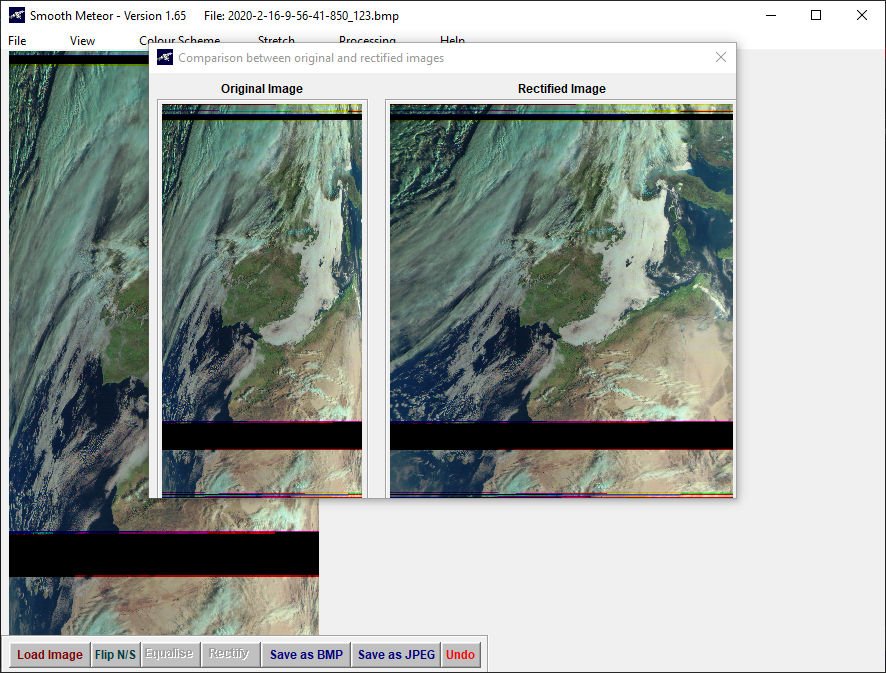
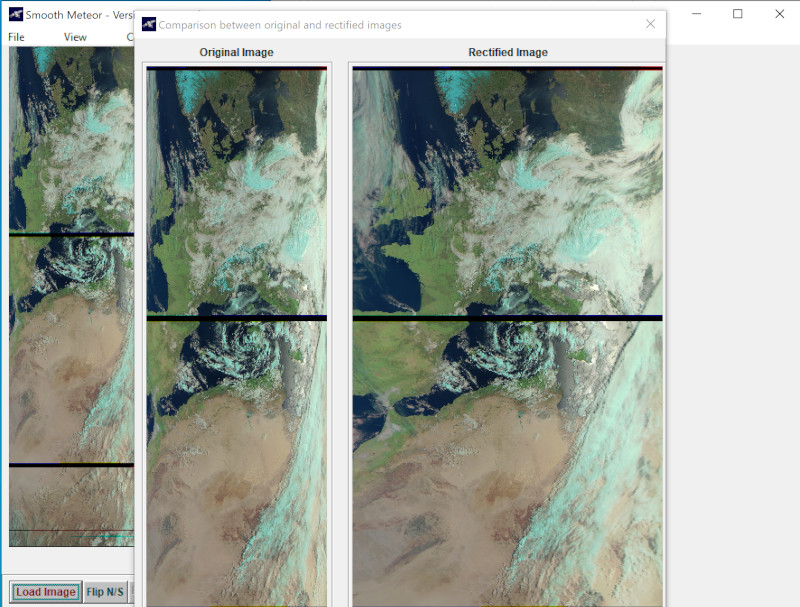
Update images

diff --git a/source/_posts/recepcion-satelites-meteorologicos-meteor.md b/source/_posts/recepcion-satelites-meteorologicos-meteor.md
@@ -167,14 +167,22 @@ Una vez termine el pase vamos a LRPT Decoder para generar la imagen final. El sa
 
 Para generarla seleccionamos los canales y hacemos click en **Generate RGB**. Nos aparecerá una ventana con la vista previa. Ahora hacemos click en **Save** y seleccionamos el formato de salida de la imagen que se guardará en la ruta que le hemos indicado en el archivo _**M2_LRPT_Decoder.ini**_.
 
-{% asset_img meteor_analizer_guardar.jpg "LRPT Decoder" %}
+{% asset_img meteor_analizer_guardar.jpg 800 "LRPT Decoder" %}
 
 ## Corrección de la distorsión de la imagen
 
 Si abrimos la imagen que hemos recibido veremos que presenta una distorsión en los laterales de la misma. Esta distorsión es posible corregirla de forma sencilla usando el software **Smooth Meteor** que podemos descargar desde el siguiente enlace:
 
-[<center>Smooth Meteor v1.68</center>](https://leshamilton.co.uk/soft/smoothmeteor-setup.exe)
+[<center>Descargar Smooth Meteor</center>](https://leshamilton.co.uk/soft/smoothmeteor-setup.exe)
 
 Una vez lo tengamos instalado, abrimos la imagen y le aplicamos las rectificaciones necesarias.
 
+- **Flip N/S:** invierte la imagen verticalmente.
+- **Equalise:** aplica un procesado de mejora de la imagen.
+- **Rectify:** elimina la distorsión de la imagen.
+
 {% asset_img smooth_meteor.jpg "Smooth Meteor" %}
+
+Por último, guardamos la imagen en el fomato que queramos haciendo clic en **Save as...**.
+
+{% asset_img meteor_rectified.jpg "Imagen rectificada" %}

diff --git a/source/_posts/recepcion-satelites-meteorologicos-NOAA.md b/source/_posts/recepcion-satelites-meteorologicos-NOAA.md
@@ -78,6 +78,6 @@ Es importante asegurarse que el volumen de la salida de SDR# sea el adecuado. Po
 
 {% asset_img wx_recibiendo.jpg "WXtoImg" %}
 
-Al finalizar el pase WXtoImg dejara de grabar y generará las imágenes que le hemos indicado en el paso 4 de la configuración.
+Al finalizar el pase, WXtoImg dejará de grabar y generará las imágenes que le hemos indicado en el paso 4 de la configuración.
 
-{% asset_img wx_terminado.jpg "WXtoImg" %}
+{% asset_img wx_terminado.jpg 500 "WXtoImg" %}

diff --git a/source/primeros-pasos/index.md b/source/primeros-pasos/index.md
@@ -15,7 +15,7 @@ Si todavía no tenemos un dispositivo SDR y no tenemos claro cual adquirir, en e
 
 [<center>Elección del dispositivo SDR</center>](/2020/03/16/eleccion-sdr/)
 
-Programa de **Net de la tecnología** sobre dispositivos SDR:
+Programa **Net de la tecnología** sobre dispositivos SDR:
 [<center>Net de la tecnología #286: ¿Qué dispositivo elegir?</center>](https://youtu.be/bIQQoDG1neY?t=4210)
 
 # Instalación del dispositivo
